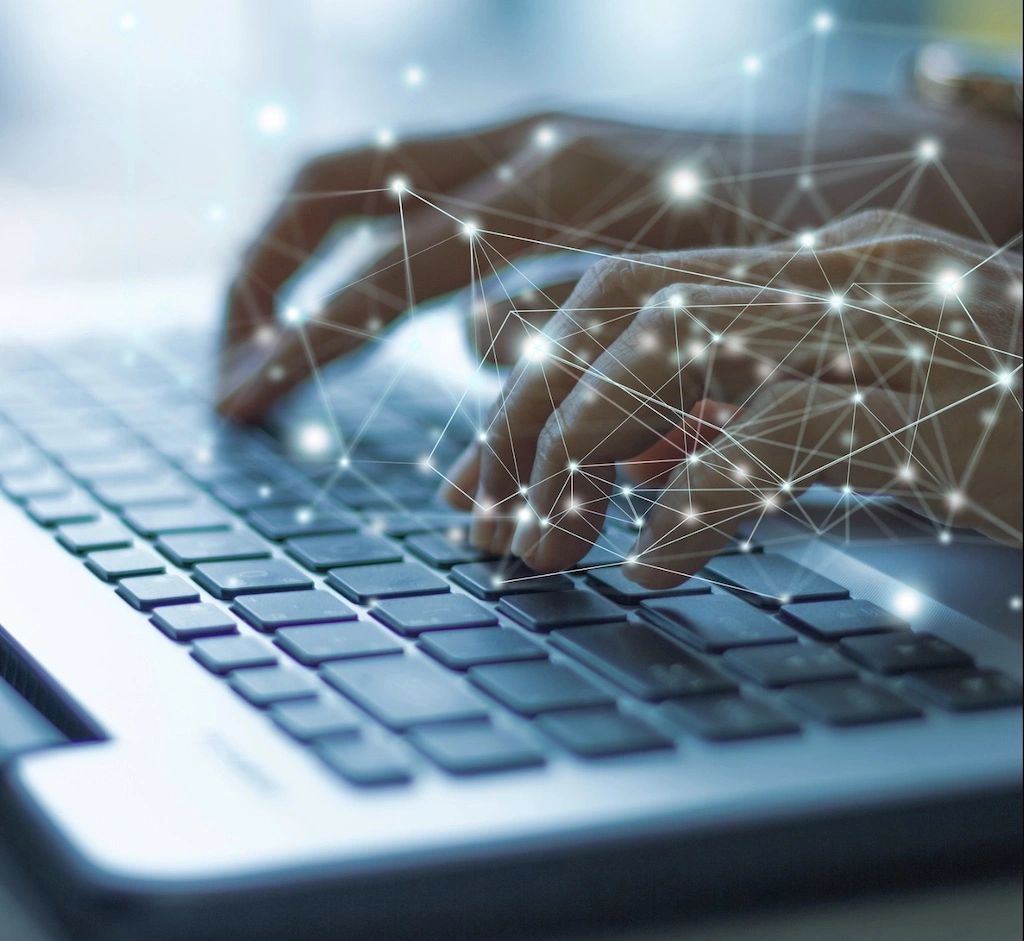
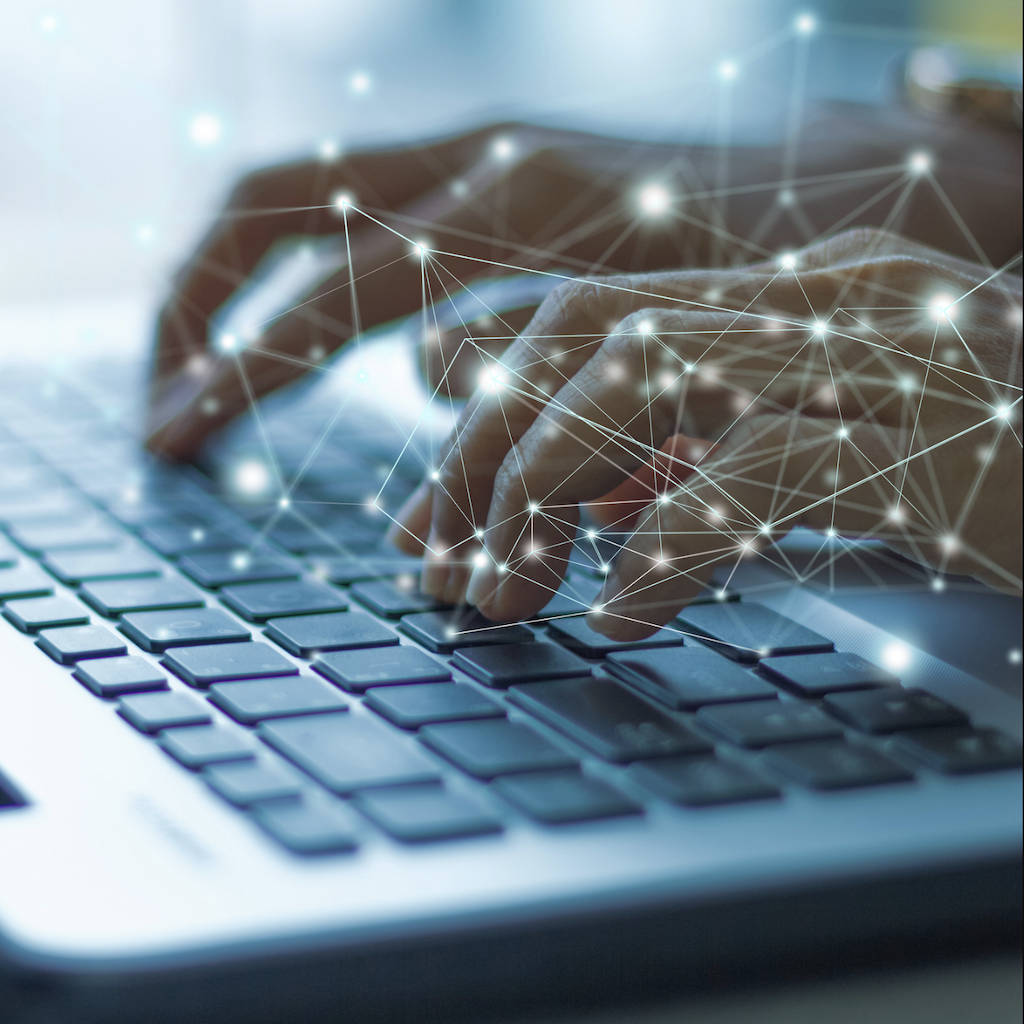
homepage: use a square purpose image

diff --git a/apps/homepage/src/components/About/About.js b/apps/homepage/src/components/About/About.js
@@ -3,16 +3,17 @@ import Row from 'react-bootstrap/Row';
 import Col from 'react-bootstrap/Col';
 import './About.scss';
 import { useT } from '@accessitech/i18n-redux-toolkit';
-import { PURPOSE_PIC_RATIO, PURPOSE_PIC_SIZES, PURPOSE_PIC_SRCSET, PURPOSE_PIC_URL_1024 } from '../../settings/settings';
+import { PURPOSE_PIC_SIZES, PURPOSE_PIC_SRCSET, PURPOSE_PIC_URL_1024 } from '../../settings/settings';
 import { PURPOSE_HEADER, PURPOSE_P1, PURPOSE_P2, PURPOSE_P3, PURPOSE_P4, PURPOSE_PIC_ALT, VISION_P1, VISION_P2 } from '../../settings/strings';
 import { useWindowSize } from '../../settings/utils';
 
+
+
 const About = () => {
  const [width] = useWindowSize();
-  const purposeImageWidth = width > 767 ?
+  const purposeImageSize = width > 767 ?
   ((width - ((1.625 * 16) + (0.045 * width))) * ((41 + (2/3)) / 100)) :
   (width - 24);
-  const purposeImageHeight = purposeImageWidth * PURPOSE_PIC_RATIO;
 
  return (
   <>
@@ -43,8 +44,8 @@ const About = () => {
           className="purpose-picture"
           alt={useT(PURPOSE_PIC_ALT)}
           title={useT(PURPOSE_PIC_ALT)}
-           width={purposeImageWidth}
-           height={purposeImageHeight}
+           width={purposeImageSize}
+           height={purposeImageSize}
         />
       </Col>
     </Row>

diff --git a/apps/homepage/src/settings/utils.js b/apps/homepage/src/settings/utils.js
@@ -1,5 +1,13 @@
 import { useState, useLayoutEffect } from "react";
 
+export const getViewportWidth = () => {
+  return Math.max([window.innerWidth || document.documentElement.clientWidth || document.body.clientWidth || 0]);
+}
+
+export const getViewportHeight = () => {
+  return Math.max([window.innerHeight || document.documentElement.clientHeight || document.body.clientHeight || 0]);
+}
+
 /**
  * Get the current window size and set it to the state.
  * src - https://stackoverflow.com/a/19014495
@@ -9,7 +17,7 @@ export const useWindowSize = () => {
   const [size, setSize] = useState([0, 0]);
   useLayoutEffect(() => {
     function updateSize() {
-      setSize([window.innerWidth, window.innerHeight]);
+      setSize([getViewportWidth(), getViewportHeight()]);
     }
     window.addEventListener('resize', updateSize);
     updateSize();

diff --git a/apps/homepage/src/settings/settings.js b/apps/homepage/src/settings/settings.js
@@ -9,10 +9,8 @@ export const PURPOSE_PIC_URL_800 = `${IMAGES_URL}/hands_800.webp`;
 export const PURPOSE_PIC_URL_1024 = `${IMAGES_URL}/hands_1024.webp`;
 
 export const PURPOSE_PIC_SRCSET = `${PURPOSE_PIC_URL_480} 480w,
-  ${PURPOSE_PIC_URL_800} 800w
-  ${PURPOSE_PIC_URL_1024} 1024w`;
+  ${PURPOSE_PIC_URL_800} 800w`;
 
 export const PURPOSE_PIC_SMALL = 'calc(100vw - 24px)';
 export const PURPOSE_PIC_LARGE = 'calc((100vw - (1.625rem + 4.5vw)) * ((41 + (2/3)) / 100))';
-export const PURPOSE_PIC_RATIO = 1428 / 1554;
 export const PURPOSE_PIC_SIZES = `(max-width: 767px) ${PURPOSE_PIC_SMALL}, ${PURPOSE_PIC_LARGE}`;

diff --git a/apps/homepage/src/components/About/About.scss b/apps/homepage/src/components/About/About.scss
@@ -23,6 +23,7 @@
   .purpose-picture {
     max-width: 100%;
     border-radius: 100%;
+    aspect-ratio: 1 / 1;
   }
 }
 
